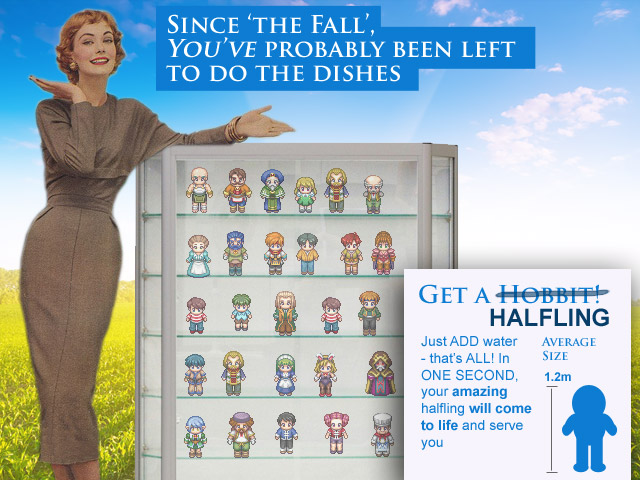
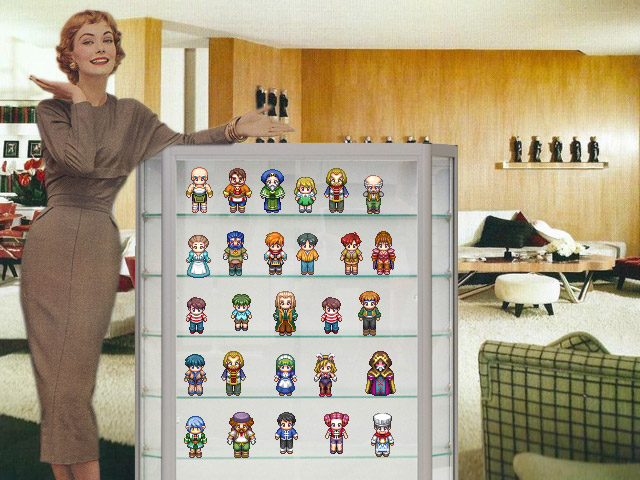
add animated sprite hobbit and generate to destroy on click, TODO incorporate different sprites into the loop

diff --git a/components/com_battle/views/plate/tmpl/027_hobbits/state01.js b/components/com_battle/views/plate/tmpl/027_hobbits/state01.js
@@ -1,0 +1,48 @@
+// defining a single global object (tirnanog) and adding some functions in to its prototype (eg preload, create functions)
+
+var hobbits = {};
+
+hobbits.State001 = function (game) {
+
+};
+
+hobbits.State001.prototype = {
+
+    preload: function () {
+
+        this.load.image('bg', 'get-your-halfling.jpg');
+        this.load.spritesheet('hobbit',
+            '/components/com_battle/images/assets/chars/halflings/001-Fighter01.png',32,48,12);
+    },
+
+    create: function () {
+
+        this.add.sprite(0, 0, 'bg');
+
+        hobbit = this.add.sprite(27, 390, 'hobbit');
+        var mx = game.width - game.cache.getImage('hobbit').width;
+        var my = game.height - game.cache.getImage('hobbit').height;
+
+        hobbit.animations.add('left',[11,10,9],3,true);
+        hobbit.animations.add('right',[1,2,3,],3);
+        hobbit.animations.play('left');
+
+        for (var i = 0; i < 5; i++) {
+
+            var hobbit = this.add.sprite(game.rnd.integerInRange(0, mx), game.rnd.integerInRange(0, my), 'hobbit');
+
+            hobbit.inputEnabled = true;
+            hobbit.events.onInputDown.add(destroySprite, this);
+
+        }
+
+
+    }
+}
+
+function destroySprite (hobbit) {
+    hobbit.destroy();
+}
+
+function hobbitLoop() {
+}

diff --git a/components/com_battle/views/plate/tmpl/027_hobbits/script.js b/components/com_battle/views/plate/tmpl/027_hobbits/script.js
@@ -1,26 +1,12 @@
-var game = new Phaser.Game(640, 480, Phaser.CANVAS, 'world', { preload: preload, create: create });
-var ctx = game.context;
+// we create the global game object, an instance of Phaser.Game
 
-function preload () {
-    game.load.image('plate', 'get-your-halfling.jpg');
-}
+var game = new Phaser.Game(640, 480, Phaser.AUTO, 'world');
 
-function create() {
+// the first parameter is the key you use to jump between stated
+// the key must be unique within the state manager
+// the second parameter is the object that contains the state code
+// these come from the js files we included in the head tag in the html file
+game.state.add('State001', hobbits.State001);
 
-    //  This creates a simple sprite that is using our loaded image and
-    //  displays it on-screen and assign it to a variable
-    var image = game.add.sprite(game.world.centerX, game.world.centerY, 'plate');
-
-    //  Moves the image anchor to the middle, so it centers inside the game properly
-    image.anchor.set(0.5);
-	
-}
-
-function listener() {
-	
-}
-
-function update() {
-
-}
+game.state.start('State001');
 

diff --git a/components/com_battle/views/plate/tmpl/027_hobbits/index.html b/components/com_battle/views/plate/tmpl/027_hobbits/index.html
@@ -1,0 +1,33 @@
+<html>
+	<head>
+
+		<script src="../../../phaser/tmpl/_site/js/jquery-2.0.3.min.js"></script>
+		<!-- Phaser -->
+        <script src="../../../phaser/tmpl/_site/js/phaser.js"></script>
+
+        <style>
+            body {
+            margin: 0;
+            }
+
+            #world {
+            position: relative;
+            }
+
+
+        </style>
+	</head>
+	
+	<body>
+
+		<div id="world">
+		</div>
+
+
+    <script src='state01.js'></script>
+    <script src='script.js'></script>
+
+	</body>
+</html>
+
+
